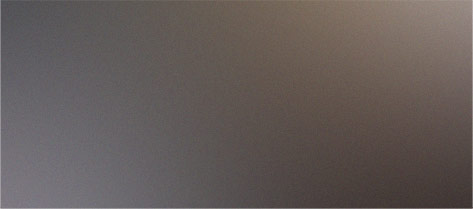
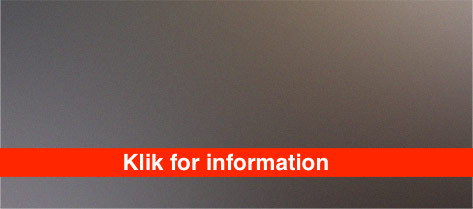
Expand/Collapse på Tamaco A/S

Changed region(s): [[0.0, 0.689, 1.0, 0.8612]]

diff --git a/Expand.html b/Expand.html
@@ -1,0 +1,57 @@
+<!-- Latest compiled and minified Bootstrap CSS -->
+<link rel="stylesheet" href="https://maxcdn.bootstrapcdn.com/bootstrap/3.3.4/css/bootstrap.min.css">
+
+<div class = "container">
+
+
+  <div class="panel-group" id="accordion">
+  <div class="panel panel-default">
+    <div class="panel-heading">
+      <h4 class="panel-title">
+        <a class="accordion-toggle" data-toggle="collapse" data-parent="#accordion" href="#collapseOne">
+          Collapsible Group Item #1
+        </a>
+      </h4>
+    </div>
+    <div id="collapseOne" class="panel-collapse collapse in">
+      <div class="panel-body">
+        Anim pariatur cliche reprehenderit, enim eiusmod high life accusamus terry richardson ad squid. 3 wolf moon officia aute, non cupidatat skateboard dolor brunch. Food truck quinoa nesciunt laborum eiusmod. Brunch 3 wolf moon tempor, sunt aliqua put a bird on it squid single-origin coffee nulla assumenda shoreditch et. Nihil anim keffiyeh helvetica, craft beer labore wes anderson cred nesciunt sapiente ea proident. Ad vegan excepteur butcher vice lomo. Leggings occaecat craft beer farm-to-table, raw denim aesthetic synth nesciunt you probably haven't heard of them accusamus labore sustainable VHS.
+      </div>
+    </div>
+  </div>
+  <div class="panel panel-default">
+    <div class="panel-heading">
+      <h4 class="panel-title">
+        <a class="accordion-toggle" data-toggle="collapse" data-parent="#accordion" href="#collapseTwo">
+          Collapsible Group Item #2
+        </a>
+      </h4>
+    </div>
+    <div id="collapseTwo" class="panel-collapse collapse">
+      <div class="panel-body">
+        Anim pariatur cliche reprehenderit, enim eiusmod high life accusamus terry richardson ad squid. 3 wolf moon officia aute, non cupidatat skateboard dolor brunch. Food truck quinoa nesciunt laborum eiusmod. Brunch 3 wolf moon tempor, sunt aliqua put a bird on it squid single-origin coffee nulla assumenda shoreditch et. Nihil anim keffiyeh helvetica, craft beer labore wes anderson cred nesciunt sapiente ea proident. Ad vegan excepteur butcher vice lomo. Leggings occaecat craft beer farm-to-table, raw denim aesthetic synth nesciunt you probably haven't heard of them accusamus labore sustainable VHS.
+      </div>
+    </div>
+  </div>
+  <div class="panel panel-default">
+    <div class="panel-heading">
+      <h4 class="panel-title">
+        <a class="accordion-toggle" data-toggle="collapse" data-parent="#accordion" href="#collapseThree">
+          Collapsible Group Item #3
+        </a>
+      </h4>
+    </div>
+    <div id="collapseThree" class="panel-collapse collapse">
+      <div class="panel-body">
+        Anim pariatur cliche reprehenderit, enim eiusmod high life accusamus terry richardson ad squid. 3 wolf moon officia aute, non cupidatat skateboard dolor brunch. Food truck quinoa nesciunt laborum eiusmod. Brunch 3 wolf moon tempor, sunt aliqua put a bird on it squid single-origin coffee nulla assumenda shoreditch et. Nihil anim keffiyeh helvetica, craft beer labore wes anderson cred nesciunt sapiente ea proident. Ad vegan excepteur butcher vice lomo. Leggings occaecat craft beer farm-to-table, raw denim aesthetic synth nesciunt you probably haven't heard of them accusamus labore sustainable VHS.
+      </div>
+    </div>
+  </div>
+</div>
+
+
+</div> <!-- end container -->
+
+<!-- Latest compiled and minified JavaScript -->
+<script src="https://ajax.googleapis.com/ajax/libs/jquery/2.1.3/jquery.min.js"></script>
+<script src="https://maxcdn.bootstrapcdn.com/bootstrap/3.3.4/js/bootstrap.min.js"></script>

diff --git a/index.html b/index.html
@@ -6,8 +6,11 @@
 		<meta name="viewport" content="width=device-width, initial-scale=1" />
 		<!--[if lte IE 8]><script src="assets/js/ie/html5shiv.js"></script><![endif]-->
 		<link rel="stylesheet" href="assets/css/main.css" />
+		<link rel="stylesheet" href="https://maxcdn.bootstrapcdn.com/bootstrap/3.3.7/css/bootstrap.min.css">
 		<!--[if lte IE 8]><link rel="stylesheet" href="assets/css/ie8.css" /><![endif]-->
 		<!--[if lte IE 9]><link rel="stylesheet" href="assets/css/ie9.css" /><![endif]-->
+		<script src="https://ajax.googleapis.com/ajax/libs/jquery/3.2.1/jquery.min.js"></script>
+		<script src="https://maxcdn.bootstrapcdn.com/bootstrap/3.3.7/js/bootstrap.min.js"></script>
 	</head>
 	<body class="index">
 		<div id="page-wrapper">
@@ -76,13 +79,18 @@
 								<div class="6u 12u(narrower)">
 
 									<section>
-										<a href="#" class="image featured"><img src="images/pic01.jpg" alt="" /></a>
+										<a  class="image featured" data-toggle="collapse" data-target="#demo"><img src="images/pic01.jpg" alt="" /></a>
 										<header>
 											<h3>Tamaco A/S</h3>
 										</header>
-										<p>Sed tristique purus vitae volutpat commodo suscipit amet sed nibh. Proin a ullamcorper sed blandit. Sed tristique purus vitae volutpat commodo suscipit ullamcorper sed blandit lorem ipsum dolore.</p>
 									</section>
+									  <!--<button type="button" class="btn btn-info" data-toggle="collapse" data-target="#demo">Simple collapsible</button>-->
+									  <div id="demo" class="collapse">
+											Tamaco Gruppen har i snart 50 år lyttet til og talt med kunder og leverandører på en måde, så gruppen i dag handler med virksomheder i hele verdenen.
+											<br>
+											<button type="button" class="btn btn-info"value="Input Button" onclick=" relocate_home()">Læs mere</button>
 
+										</div>
 								</div>
 								<div class="6u 12u(narrower)">
 
@@ -188,6 +196,12 @@
 			<script src="assets/js/util.js"></script>
 			<!--[if lte IE 8]><script src="assets/js/ie/respond.min.js"></script><![endif]-->
 			<script src="assets/js/main.js"></script>
+			<script>
+function relocate_home()
+{
+     location.href = "Tamaco-AS.html";
+}
+		</script>
 
 	</body>
 </html>
